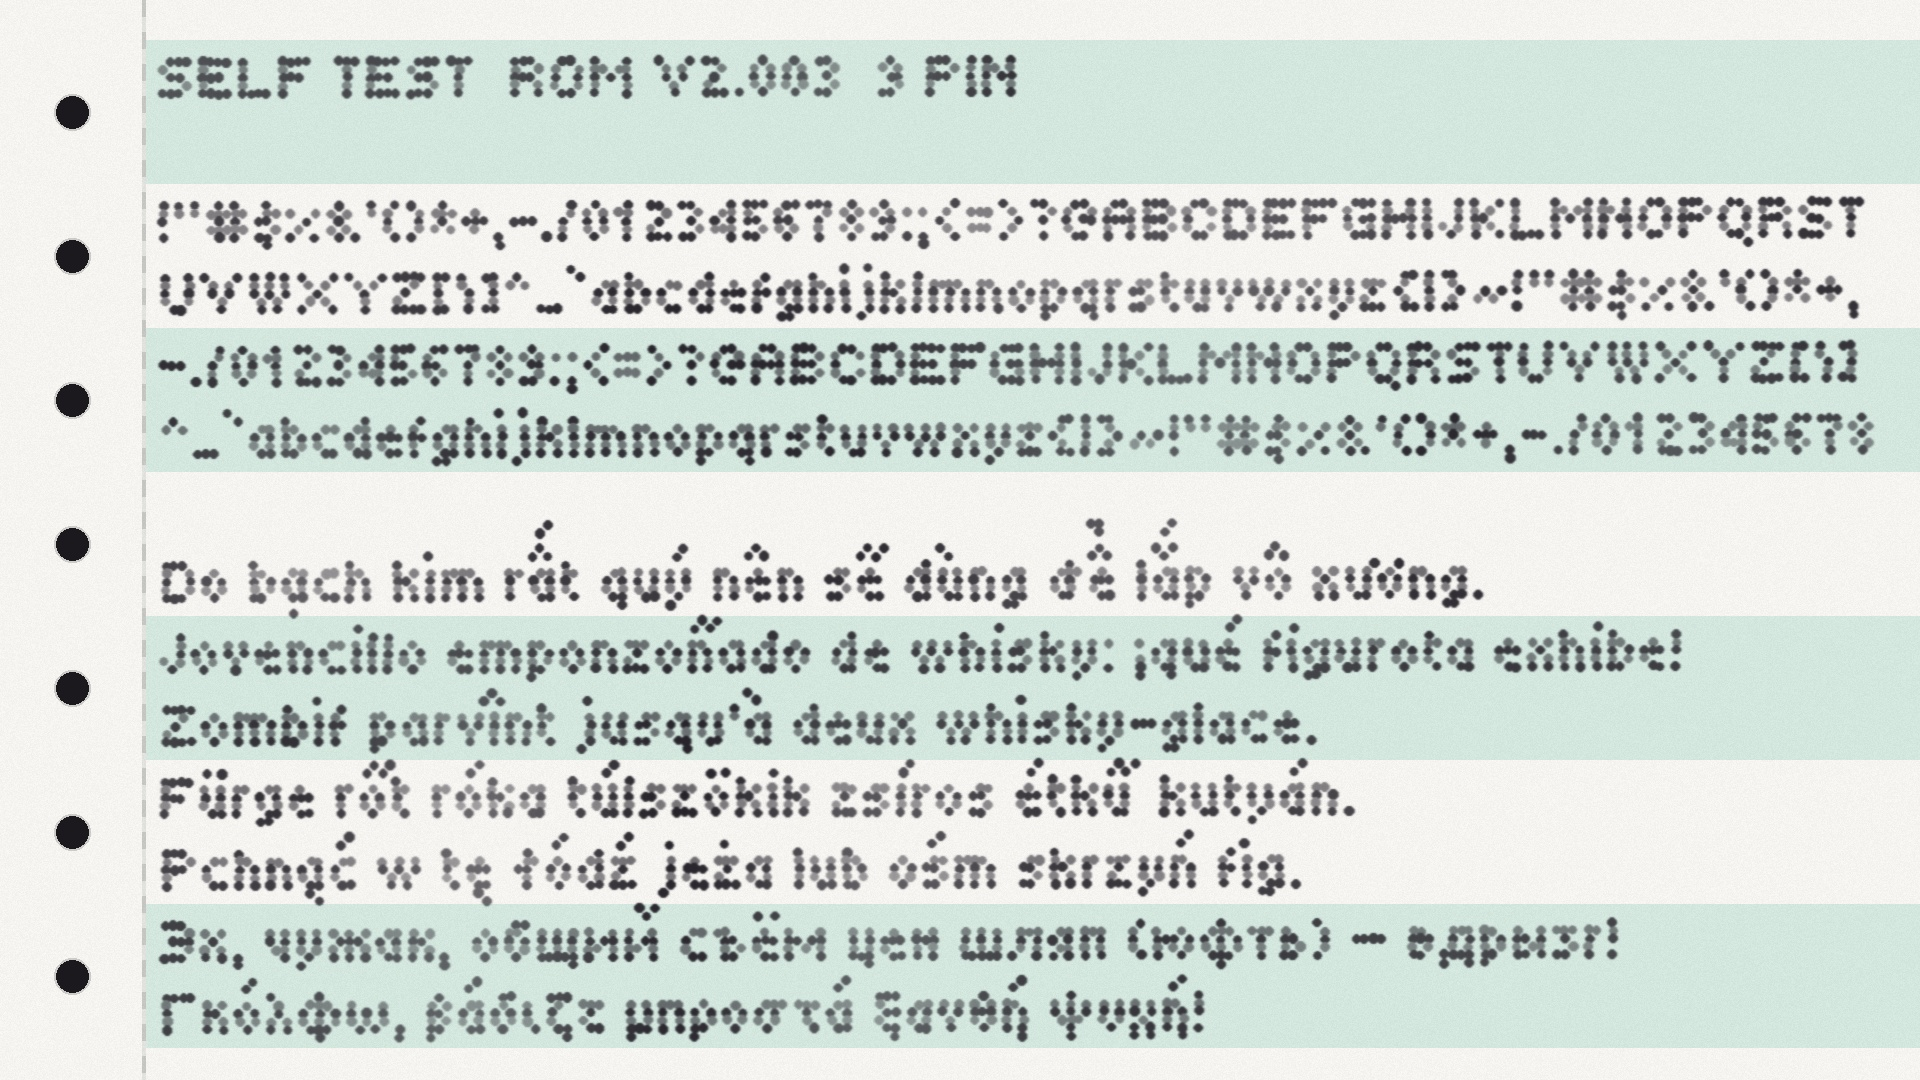
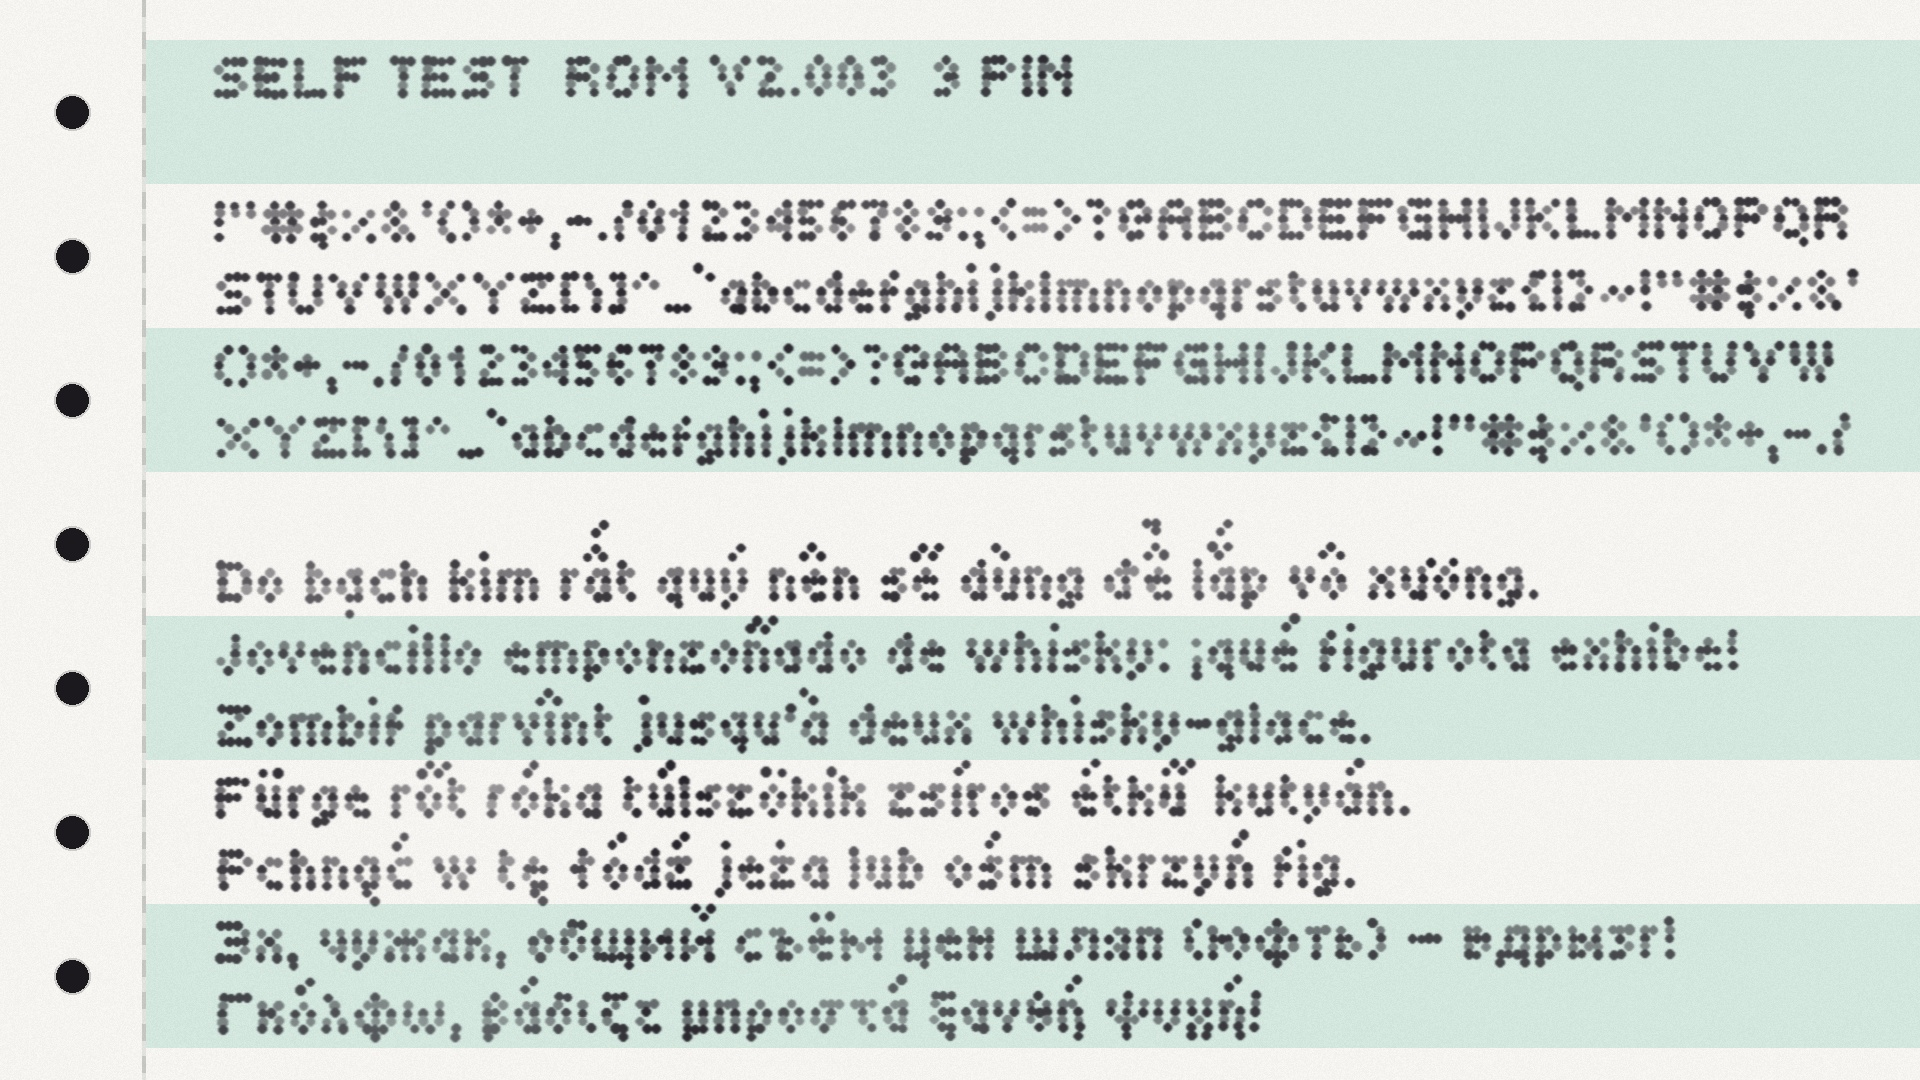
Specimen update

Changed region(s): [[0.0625, 0.4583, 0.9062, 0.9778], [0.0625, 0.1833, 1.0, 0.4278], [0.0625, 0.0306, 0.5625, 0.0917]]

diff --git a/documentation/build-specimen.py b/documentation/build-specimen.py
@@ -853,9 +853,11 @@ INKJET_GAIN = (0.56, 0.70)      # Droplet radius range, in dots (dot gain > 0.5)
 INKJET_SATELLITES = 0.03        # Chance of a stray satellite drop per edge dot
 
 # The proof card: a running head over three rows of two blocks, each block
-# an axis name with its technical tag beneath. The card is trimmed to one
-# margin all round, and the blocks stand in two equal columns across it
-PROOF_MARGIN = 84               # margin on every side, in image pixels
+# an axis name with its technical tag beneath. The card is trimmed to a wide
+# side margin and a narrower one head and foot, and the blocks stand in two
+# equal columns across the measure it leaves
+PROOF_MARGIN_X = 181            # side margin, in image pixels
+PROOF_MARGIN_Y = 84             # head and foot margin, in image pixels
 PROOF_WORD_SCALE = 22           # the axis name, in image pixels per font pixel
 PROOF_TAG_SCALE = 8             # its tag, and the running head
 PROOF_TAG_GAP = 30              # ink gap from an axis name down to its tag
@@ -987,7 +989,7 @@ def build_axes():
 
         return max(-box[1] for box in boxes), max(box[3] for box in boxes)
 
-    left, right = PROOF_MARGIN, CANVAS[0] - PROOF_MARGIN
+    left, right = PROOF_MARGIN_X, CANVAS[0] - PROOF_MARGIN_X
     column = (right - left) // 2        # pitch of the two columns
     head = [("Tiny5 variation test", {}), (VERSION, {})]
     rows = [AXIS_ROWS[i:i + 2] for i in range(0, len(AXIS_ROWS), 2)]
@@ -1001,9 +1003,9 @@ def build_axes():
         tag_above, tag_below = ink(PROOF_TAG_SCALE, [(tag, {}) for _, tag, _ in row])
         blocks.append((above, below + PROOF_TAG_GAP + tag_above, tag_below))
     filled = head_above + head_below + sum(sum(block) for block in blocks)
-    gap = (CANVAS[1] - 2 * PROOF_MARGIN - filled) // len(rows)
+    gap = (CANVAS[1] - 2 * PROOF_MARGIN_Y - filled) // len(rows)
 
-    y = PROOF_MARGIN + head_above
+    y = PROOF_MARGIN_Y + head_above
     put((left, y), PROOF_TAG_SCALE, "Tiny5 variation test")
     put((right, y), PROOF_TAG_SCALE, VERSION, anchor="rs")
     y += head_below
@@ -1237,7 +1239,8 @@ INK_PATCH_LEVEL = 165           # Ink level of the faintest patch, of 255
 WEAK_PINS = 2                   # Print head pins that strike faintly
 
 CONTENT_TOP = 4                 # top of the printed area, in cells
-CONTENT_LEFT = LINE_PITCH       # text starts one line height in
+CONTENT_LEFT = LINE_PITCH       # the paper's pre-cut, one line height in
+TEXT_INDENT = 9                 # text starts this far right of the pre-cut, in cells
 
 # As on a real 9-pin self test, the printable character set streams line
 # after line in a continuous wrap; an international section follows.
@@ -1302,7 +1305,7 @@ def build_printout():
     first_baseline = CONTENT_TOP + get_baseline(PIN_ROWS, CAP_PIXELS) + 1
     glyph_top = first_baseline - CAP_PIXELS
 
-    text_left = CONTENT_LEFT + 2
+    text_left = CONTENT_LEFT + TEXT_INDENT
     max_width = MATRIX_GRID[0] - text_left - 6
 
     # The character set streams continuously: each line picks up where the
